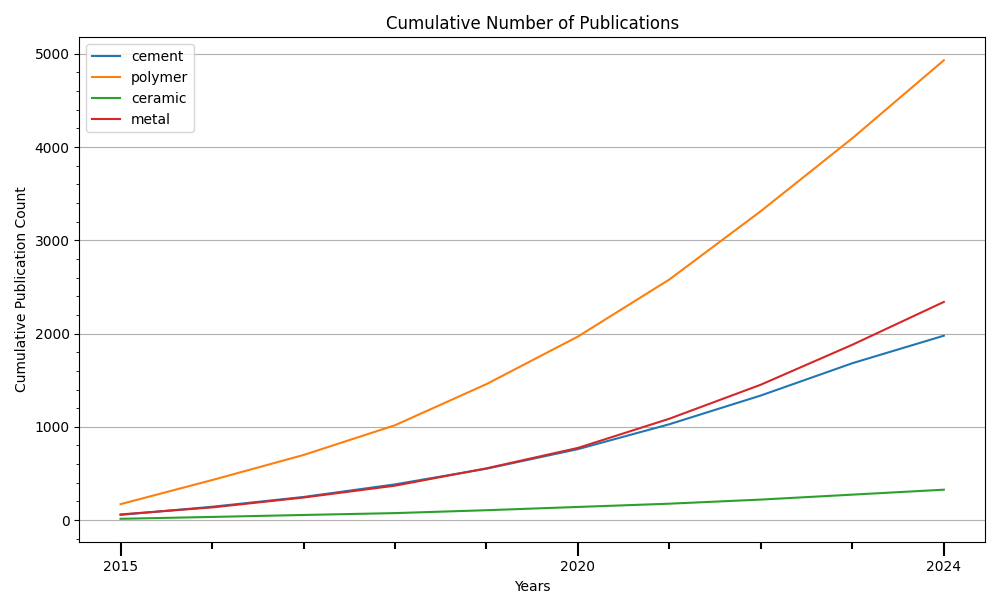
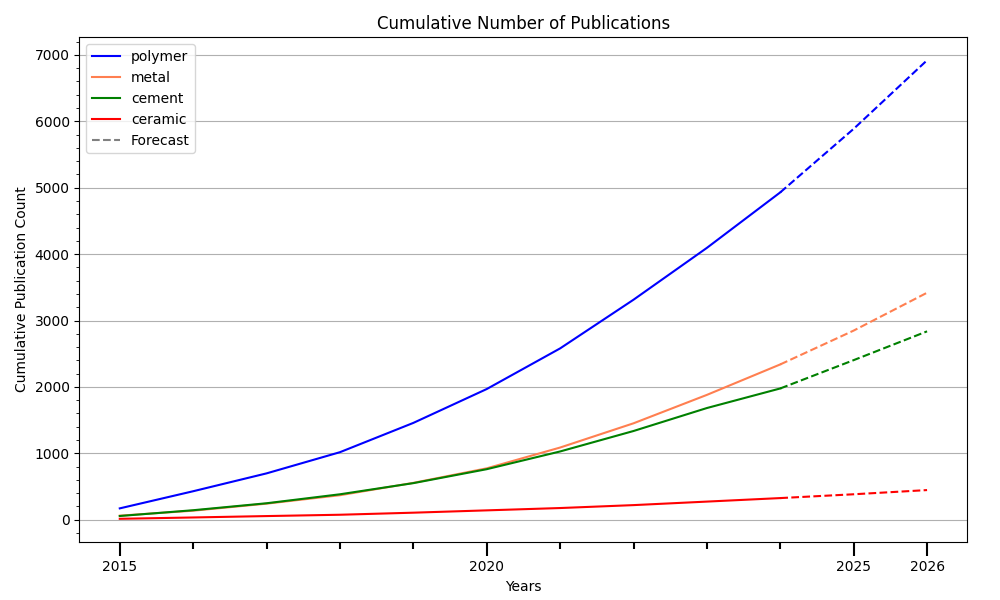
forecast for cumulative graph, reordering of labels

diff --git a/graph_new.py b/graph_new.py
@@ -3,6 +3,8 @@ import matplotlib.pyplot as plt
 import math
 import os
 from matplotlib.ticker import MultipleLocator
+from matplotlib.lines import Line2D
+import numpy as np
 # Load the data files
 dirname = os.path.dirname(__file__)
 
@@ -12,7 +14,8 @@ data_populations = pd.read_excel(populations_file, header=1)
 data_populations["Name"] = data_populations["Name"].str.upper()
 
 
-materialstrings = ["cement", "polymer", "ceramic", "metal"]
+materialstrings = ["polymer","metal","cement","ceramic"]
+colors = ["blue", "coral", "green", "red"]
 
 cutoffs_dict_upper = {"cement": 20, 
                       "polymer": 60,
@@ -241,9 +244,8 @@ for materialstring in materialstrings:
     plt.close()
 
 df_years_all = pd.DataFrame()
-
+predictions = {}
 for materialstring in materialstrings:
-    
     years_file = os.path.join(dirname, r'data/years_' + materialstring +'_wos.xlsx')  
     data_years = pd.read_excel(years_file)
     # Ensure "Publication Years" is the index for merging
@@ -253,11 +255,10 @@ for materialstring in materialstrings:
     data_years = data_years.rename(columns={"Counts": materialstring})
 
     # Merge with the result DataFrame, filling missing values with 0
-    df_years_all = df_years_all.join(data_years, how="outer", rsuffix=f"_{materialstring}").fillna(0) if not df_years_all.empty else data_years
+    df_years_all = df_years_all.join(data_years, how="outer", rsuffix=f"_{materialstring}").fillna(0) if not df_years_all.empty else data_years  
 
 # Reset index to include "Publication Years" as a column
 df_years_all = df_years_all.reset_index()
-
 
 #Remove 2025, unreliable data
 df_years_all = df_years_all[df_years_all["Publication Years"]!= 2025]
@@ -272,11 +273,13 @@ years_cululative_plot_path = os.path.join(dirname, r'graphs/years_cumulative')
 #-------------------------------
 
 # plt.figure(figsize=(10, 6))
-df_years_all.plot(x="Publication Years", y=materialstrings,
+ax = df_years_all.plot(x="Publication Years", y=materialstrings,
         kind="line", figsize=(10, 6))
+
+
 # for materialstring in materialstrings:
 #     plt.plot(df_years_all['Publication Years'], df_years_all[materialstring])
-x_tick_list = [min(df_years_all['Publication Years'])] + [x for x in df_years_all['Publication Years'] if x%5==0] + [max(df_years_all['Publication Years'])]
+x_tick_list = [min(df_years_all['Publication Years'])] + [x for x in range(min(df_years_all['Publication Years']), max(df_years_all['Publication Years'] + 2)) if x%5==0] + [max(df_years_all['Publication Years'] + 2)]
 x_tick_list = sorted(list(set(x_tick_list)))
 plt.title('Number of Publications per Year')
 plt.xlabel('Year')
@@ -284,7 +287,7 @@ plt.ylabel('Publication Count')
 plt.xticks(x_tick_list)
 plt.minorticks_on()
 plt.tight_layout()
-ax = plt.gca()
+# ax = plt.gca()
 ax.xaxis.set_minor_locator(MultipleLocator(1))
 ax.tick_params(axis='x', which='major', color='black', width=1.5, length=10)
 ax.tick_params(axis='x', which='minor', color='black', width=1.5, length=5)
@@ -298,11 +301,16 @@ plt.close()
 #-------------------------------
 
 df_years_all[materialstrings] = df_years_all[materialstrings].cumsum()
+for materialstring in materialstrings:
+    model = np.poly1d(np.polyfit(df_years_all.index, 
+                                df_years_all[materialstring], 2)) 
+    predictions[materialstring] = {"years": [2024, 2025, 2026], "counts": [list(df_years_all[materialstring])[-1], model(df_years_all.index[-1]+1), model(df_years_all.index[-1] +2)]}
+
 
 # Plot the cumulative values
-df_years_all.plot(x="Publication Years", y=materialstrings, kind="line", figsize=(10, 6))
+df_years_all.plot(x="Publication Years", y=materialstrings, kind="line", figsize=(10, 6), color=colors)
 
-x_tick_list = [min(df_years_all['Publication Years'])] + [x for x in df_years_all['Publication Years'] if x%5==0] + [max(df_years_all['Publication Years'])]
+x_tick_list = [min(df_years_all['Publication Years'])] + [x for x in range(min(df_years_all['Publication Years']), max(df_years_all['Publication Years'] + 2)) if x%5==0] + [max(df_years_all['Publication Years'] + 2)]
 x_tick_list = sorted(list(set(x_tick_list)))
 plt.title('Cumulative Number of Publications')
 plt.xlabel('Years')
@@ -316,5 +324,12 @@ ax.tick_params(axis='x', which='major', color='black', width=1.5, length=10)
 ax.tick_params(axis='x', which='minor', color='black', width=1.5, length=5)
 ax.grid(which='major', axis='y', linestyle='-')
 ax.set_axisbelow(True)
+for i,materialstring in enumerate(materialstrings):
+    plt.plot(predictions[materialstring]["years"], predictions[materialstring]["counts"], linestyle='dashed', color=colors[i])
+
+custom_line = Line2D([0], [0], color="grey", linestyle="--", label="forecast")
+# Add the legend, including the custom line
+plt.legend(handles=plt.gca().get_legend_handles_labels()[0] + [custom_line])
+
 plt.savefig(years_cululative_plot_path)
 plt.close()

diff --git a/graph_patent.py b/graph_patent.py
@@ -28,10 +28,17 @@ data_populations["Name"] = data_populations["Name"].str.upper()
 #data conversions
 wipo_data['Application Date'] = pd.to_datetime(wipo_data['Application Date'], format='%d.%m.%Y')
 wipo_data['Year'] = wipo_data['Application Date'].dt.year
+patents_administered_by_wipo = len(wipo_data[wipo_data['Country'] == "WO"])
+
+print(f"{patents_administered_by_wipo} patents administrated by WIPO")
+
 # Map ISO-2 country codes to full names
 country_mapping = dict(zip(data_populations['GENC'], data_populations['Name']))
 wipo_data['Country Full Name'] = wipo_data['Country'].map(country_mapping)
 countries_data['Countries (family)'] = countries_data['Countries (family)'].map(country_mapping)
+
+
+
 
 wipo_data_withdate = wipo_data.dropna(subset=['Year'])
 wipo_data_withdate['Year'] = wipo_data_withdate['Year'].astype(int)
